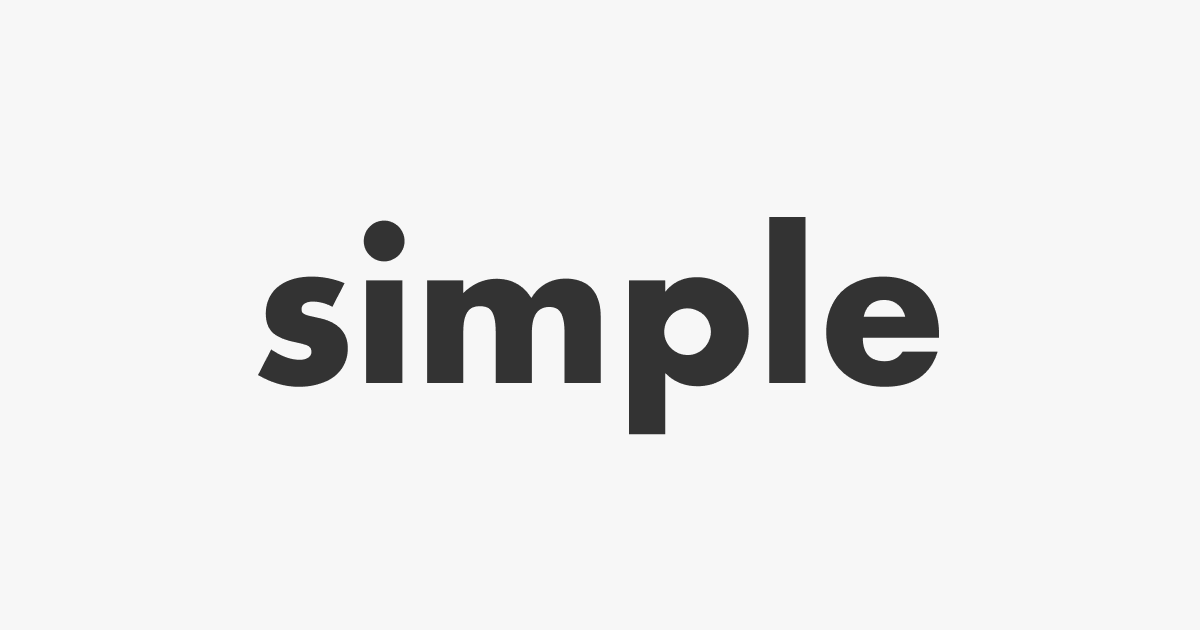
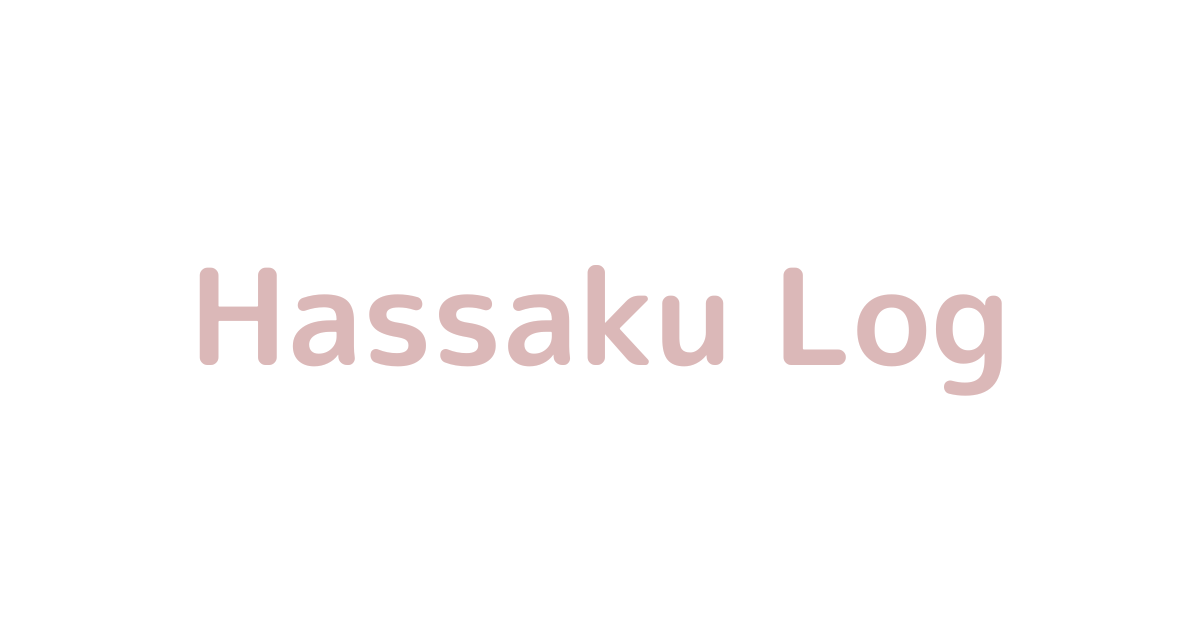
First commit

Changed region(s): [[0.1542, 0.3317, 0.8325, 0.6937]]

diff --git a/components/ArticleListItem/index.tsx b/components/ArticleListItem/index.tsx
@@ -25,7 +25,7 @@ export default function ArticleListItem({ article }: Props) {
               srcSet={`${article.thumbnail?.url}?fm=webp&fit=crop&w=240&h=126 1x, ${article.thumbnail?.url}?fm=webp&fit=crop&w=240&h=126&dpr=2 2x`}
             />
             <img
-              src={article.thumbnail?.url || `/noimage.png`}
+              src={article.thumbnail?.url || `/ogp.png`}
               alt=""
               className={styles.image}
               width={article.thumbnail?.width}
@@ -35,7 +35,7 @@ export default function ArticleListItem({ article }: Props) {
         ) : (
           <Image
             className={styles.image}
-            src="/no-image.png"
+            src="/ogp.png"
             alt="No Image"
             width={1200}
             height={630}
@@ -43,6 +43,9 @@ export default function ArticleListItem({ article }: Props) {
         )}
         <dl className={styles.content}>
           <dt className={styles.title}>{article.title}</dt>
+          <dd>
+            <p className={styles.description}>{article.description}</p>
+          </dd>
           <dd>
             <TagList tags={article.tags} hasLink={false} />
           </dd>

diff --git a/app/layout.tsx b/app/layout.tsx
@@ -8,11 +8,11 @@ import styles from './layout.module.css';
 
 export const metadata = {
   metadataBase: new URL(process.env.BASE_URL || 'http://localhost:3000'),
-  title: 'Simple Blog',
-  description: 'A simple blog presented by microCMS',
+  title: 'Hassaku Log',
+  description: '好きなものや考えたことを好きなように記録します',
   openGraph: {
-    title: 'Simple Blog',
-    description: 'A simple blog presented by microCMS',
+    title: 'Hassaku Log',
+    description: '好きなものや考えたことを好きなように記録します',
     images: '/ogp.png',
   },
   alternates: {

diff --git a/components/Header/index.tsx b/components/Header/index.tsx
@@ -7,8 +7,8 @@ export default function Header() {
     <header className={styles.header}>
       <Link href="/">
         <Image
-          src="/logo.svg"
-          alt="SIMPLE"
+          src="/Hassaku.svg"
+          alt="Hassaku"
           className={styles.logo}
           width={348}
           height={133}

diff --git a/components/Article/index.module.css b/components/Article/index.module.css
@@ -13,7 +13,7 @@
 
 .description {
   font-size: 0.9rem;
-  color: var(--color-text-sub);
+  color: plum;
   margin: 24px 40px;
   text-align: center;
 }

diff --git a/components/ArticleListItem/index.module.css b/components/ArticleListItem/index.module.css
@@ -18,6 +18,10 @@
   margin-bottom: 0.5rem;
 }
 
+.description {
+  color: plum;
+}
+
 @media (max-width: 640px) {
   .link {
     display: block;
